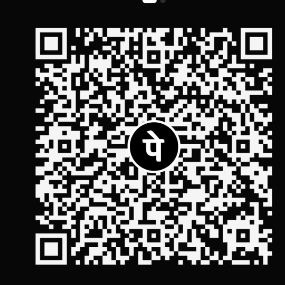
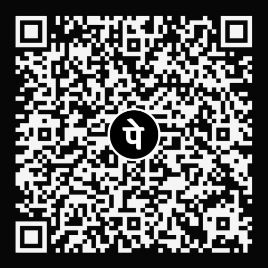
Make PhonePe QR code perfectly symmetrical 268x268 square

diff --git a/client/src/App.jsx b/client/src/App.jsx
@@ -925,11 +925,11 @@ ${interviewerNotes}
 
             {/* QR Code Section */}
             <div className="text-center space-y-2">
-              <div className="relative inline-block bg-white p-2.5 rounded-2xl shadow-xl shadow-indigo-500/10 border-2 border-indigo-500/30">
+              <div className="relative inline-block bg-black p-2 rounded-2xl shadow-2xl border-2 border-indigo-500/40">
                 <img
                   src="/qr_code.png"
                   alt="Aman Gajbhiye PhonePe UPI QR"
-                  className="w-44 h-44 object-contain rounded-lg"
+                  className="w-48 h-48 object-contain rounded-xl block mx-auto"
                 />
               </div>
 

diff --git a/client/update_qr_style.py b/client/update_qr_style.py
@@ -1,0 +1,10 @@
+with open('src/App.jsx', 'r', encoding='utf-8') as f:
+    c = f.read()
+
+c = c.replace('bg-white p-2.5 rounded-2xl shadow-xl shadow-indigo-500/10 border-2 border-indigo-500/30', 'bg-black p-2 rounded-2xl shadow-2xl border-2 border-indigo-500/40')
+c = c.replace('className="w-44 h-44 object-contain rounded-lg"', 'className="w-48 h-48 object-contain rounded-xl block mx-auto"')
+
+with open('src/App.jsx', 'w', encoding='utf-8') as f:
+    f.write(c)
+
+print('Updated App.jsx successfully!')
